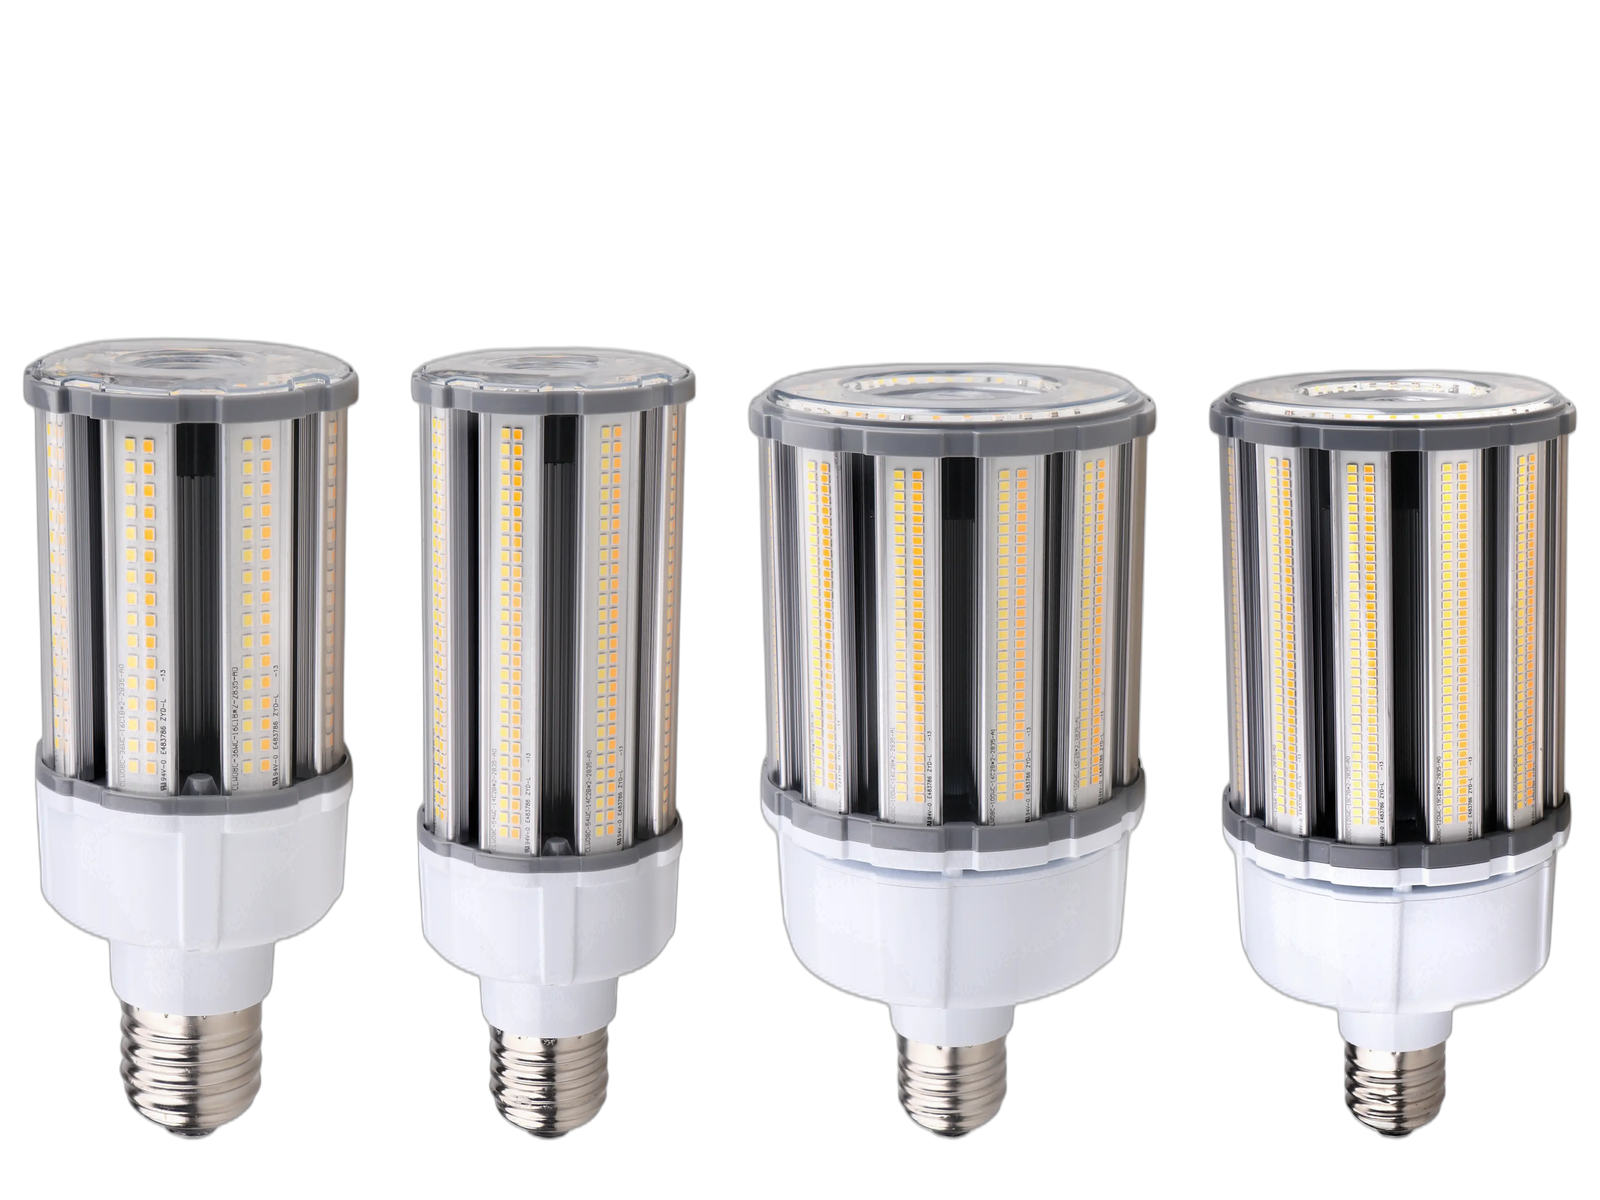
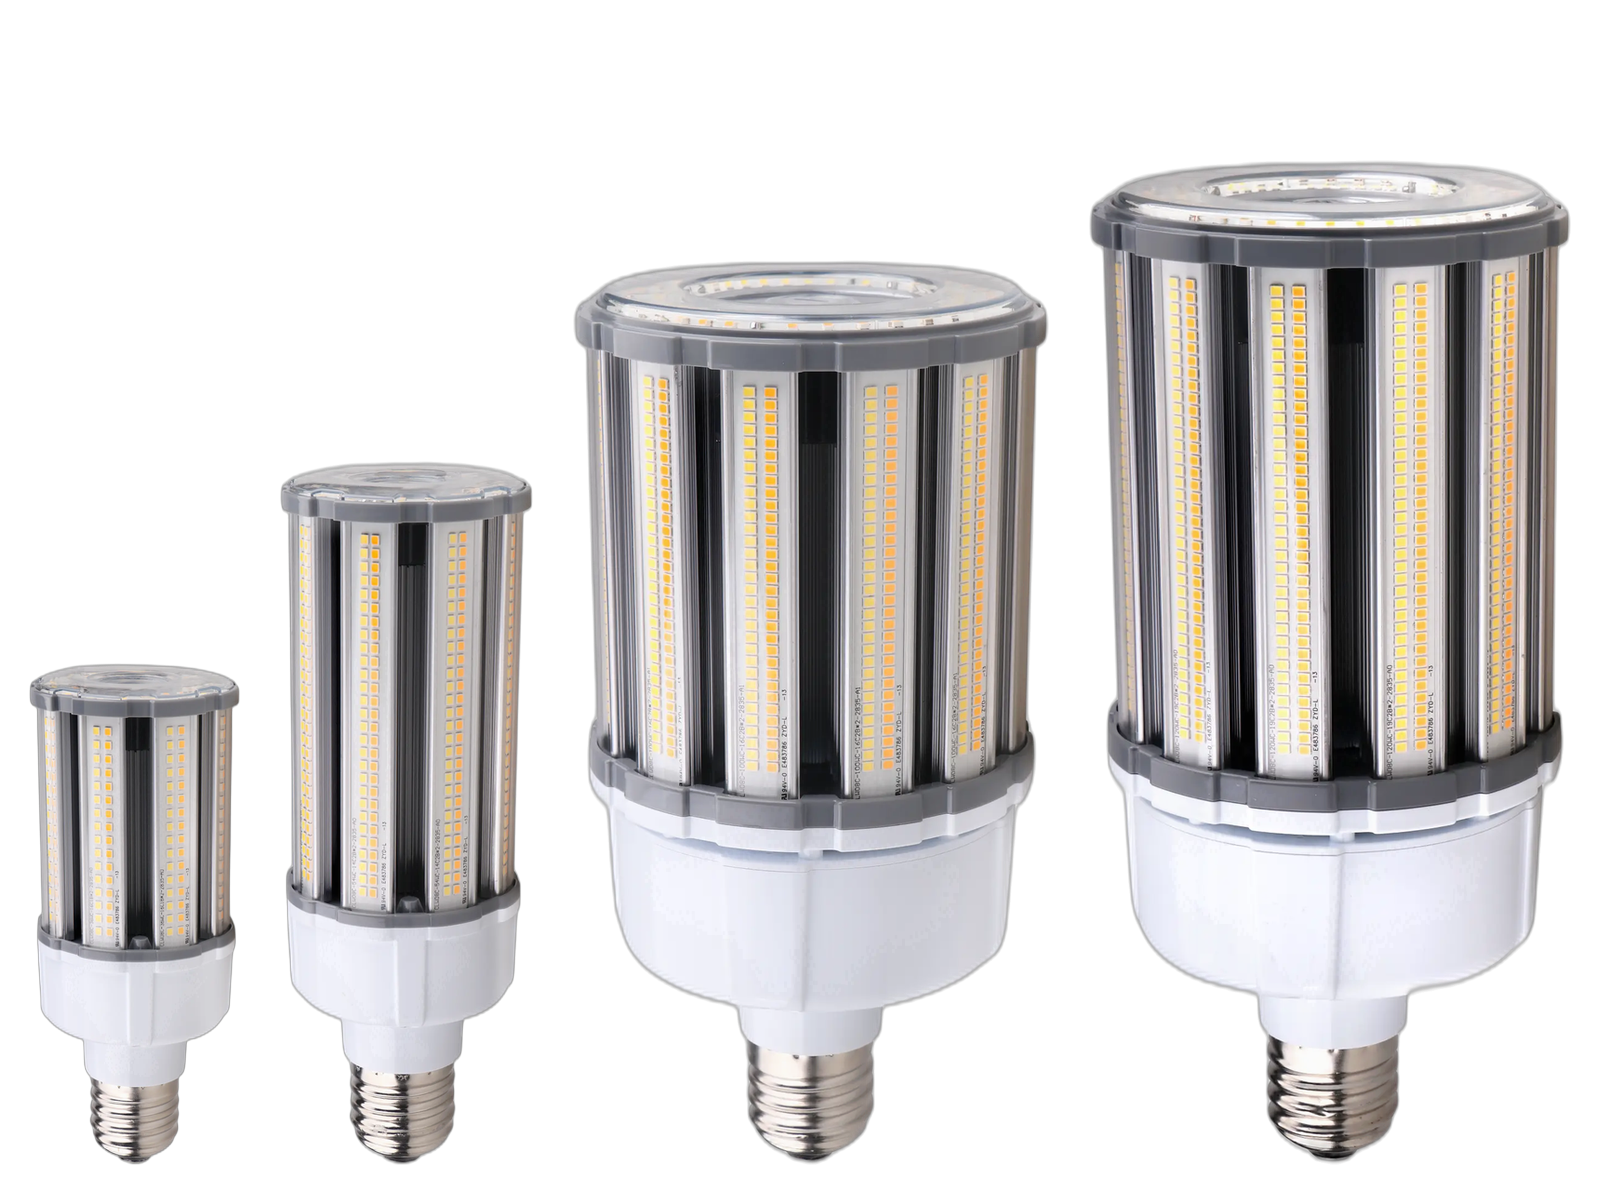
fix: rebuild husk-hid composite with correct size ratios (50/70/90/100%)

diff --git a/scripts/composite_husk_hid_group_v2.py b/scripts/composite_husk_hid_group_v2.py
@@ -1,0 +1,93 @@
+"""
+Husk HID composite v2 — explicit size ratios.
+Bulb order (left to right): 36W, 54W, 100W, 120W
+Size ratios relative to the 4th (120W) bulb's rendered height:
+  36W  = 50%
+  54W  = 70%
+  100W = 90%
+  120W = 100%
+Canvas: 1600×1200 (4:3 landscape), transparent bg.
+Base-aligned.
+"""
+from pathlib import Path
+from rembg import remove
+from PIL import Image
+import numpy as np
+import io
+
+UPLOAD = Path("/home/ubuntu/upload")
+OUT_DIR = Path("/home/ubuntu/alg-website/public/images/signature")
+OUT_DIR.mkdir(parents=True, exist_ok=True)
+
+SOURCES = [
+    ("LCRN_36WE39(2).webp",          0.50),
+    ("LCRN_54WE39(5).webp",          0.70),
+    ("LCRN_100WE39(2).webp",         0.90),
+    ("LCRN_120WE39\uff082\uff09.webp", 1.00),
+]
+
+CANVAS_W = 1600
+CANVAS_H = 1200
+PADDING  = 40
+ALPHA_THRESHOLD = 30
+
+def remove_bg(src: Path) -> Image.Image:
+    print(f"Processing {src.name} ...")
+    data = src.read_bytes()
+    out  = remove(data)
+    img  = Image.open(io.BytesIO(out)).convert("RGBA")
+    arr  = np.array(img)
+    arr[arr[:, :, 3] < ALPHA_THRESHOLD, 3] = 0
+    img  = Image.fromarray(arr)
+    bbox = img.getbbox()
+    img  = img.crop(bbox)
+    print(f"  Cropped: {img.width}×{img.height}")
+    return img
+
+raw_bulbs = [(remove_bg(UPLOAD / name), ratio) for name, ratio in SOURCES]
+
+# Determine the target height for the 4th (100%) bulb so it fills ~90% of canvas height
+target_100_h = int(CANVAS_H * 0.90)
+
+# Scale each bulb: first scale to 100% height, then apply ratio
+scaled = []
+for img, ratio in raw_bulbs:
+    # Scale image so that IF it were 100%, its height = target_100_h
+    # Then apply the ratio to get the actual rendered height
+    base_scale = target_100_h / img.height
+    final_h = int(target_100_h * ratio)
+    final_w = int(img.width * base_scale * ratio)
+    resized = img.resize((final_w, final_h), Image.LANCZOS)
+    scaled.append(resized)
+    print(f"  Rendered: {resized.width}×{resized.height} (ratio {ratio})")
+
+# Check total width fits; shrink if needed
+total_w = sum(b.width for b in scaled) + PADDING * (len(scaled) - 1)
+if total_w > CANVAS_W * 0.96:
+    fit = (CANVAS_W * 0.96) / total_w
+    scaled = [b.resize((int(b.width * fit), int(b.height * fit)), Image.LANCZOS) for b in scaled]
+    total_w = sum(b.width for b in scaled) + PADDING * (len(scaled) - 1)
+
+def base_y(img: Image.Image) -> int:
+    alpha = img.split()[3]
+    for y in range(img.height - 1, -1, -1):
+        row = alpha.crop((0, y, img.width, y + 1))
+        if row.getextrema()[1] > 10:
+            return y
+    return img.height - 1
+
+base_y_canvas = int(CANVAS_H * 0.97)
+
+canvas = Image.new("RGBA", (CANVAS_W, CANVAS_H), (0, 0, 0, 0))
+
+start_x = (CANVAS_W - total_w) // 2
+x = start_x
+for b in scaled:
+    base = base_y(b)
+    y_pos = base_y_canvas - base
+    canvas.paste(b, (x, y_pos), b)
+    x += b.width + PADDING
+
+out_path = OUT_DIR / "husk-hid-group.png"
+canvas.save(out_path, "PNG")
+print(f"\nSaved → {out_path}  ({canvas.width}×{canvas.height})")
